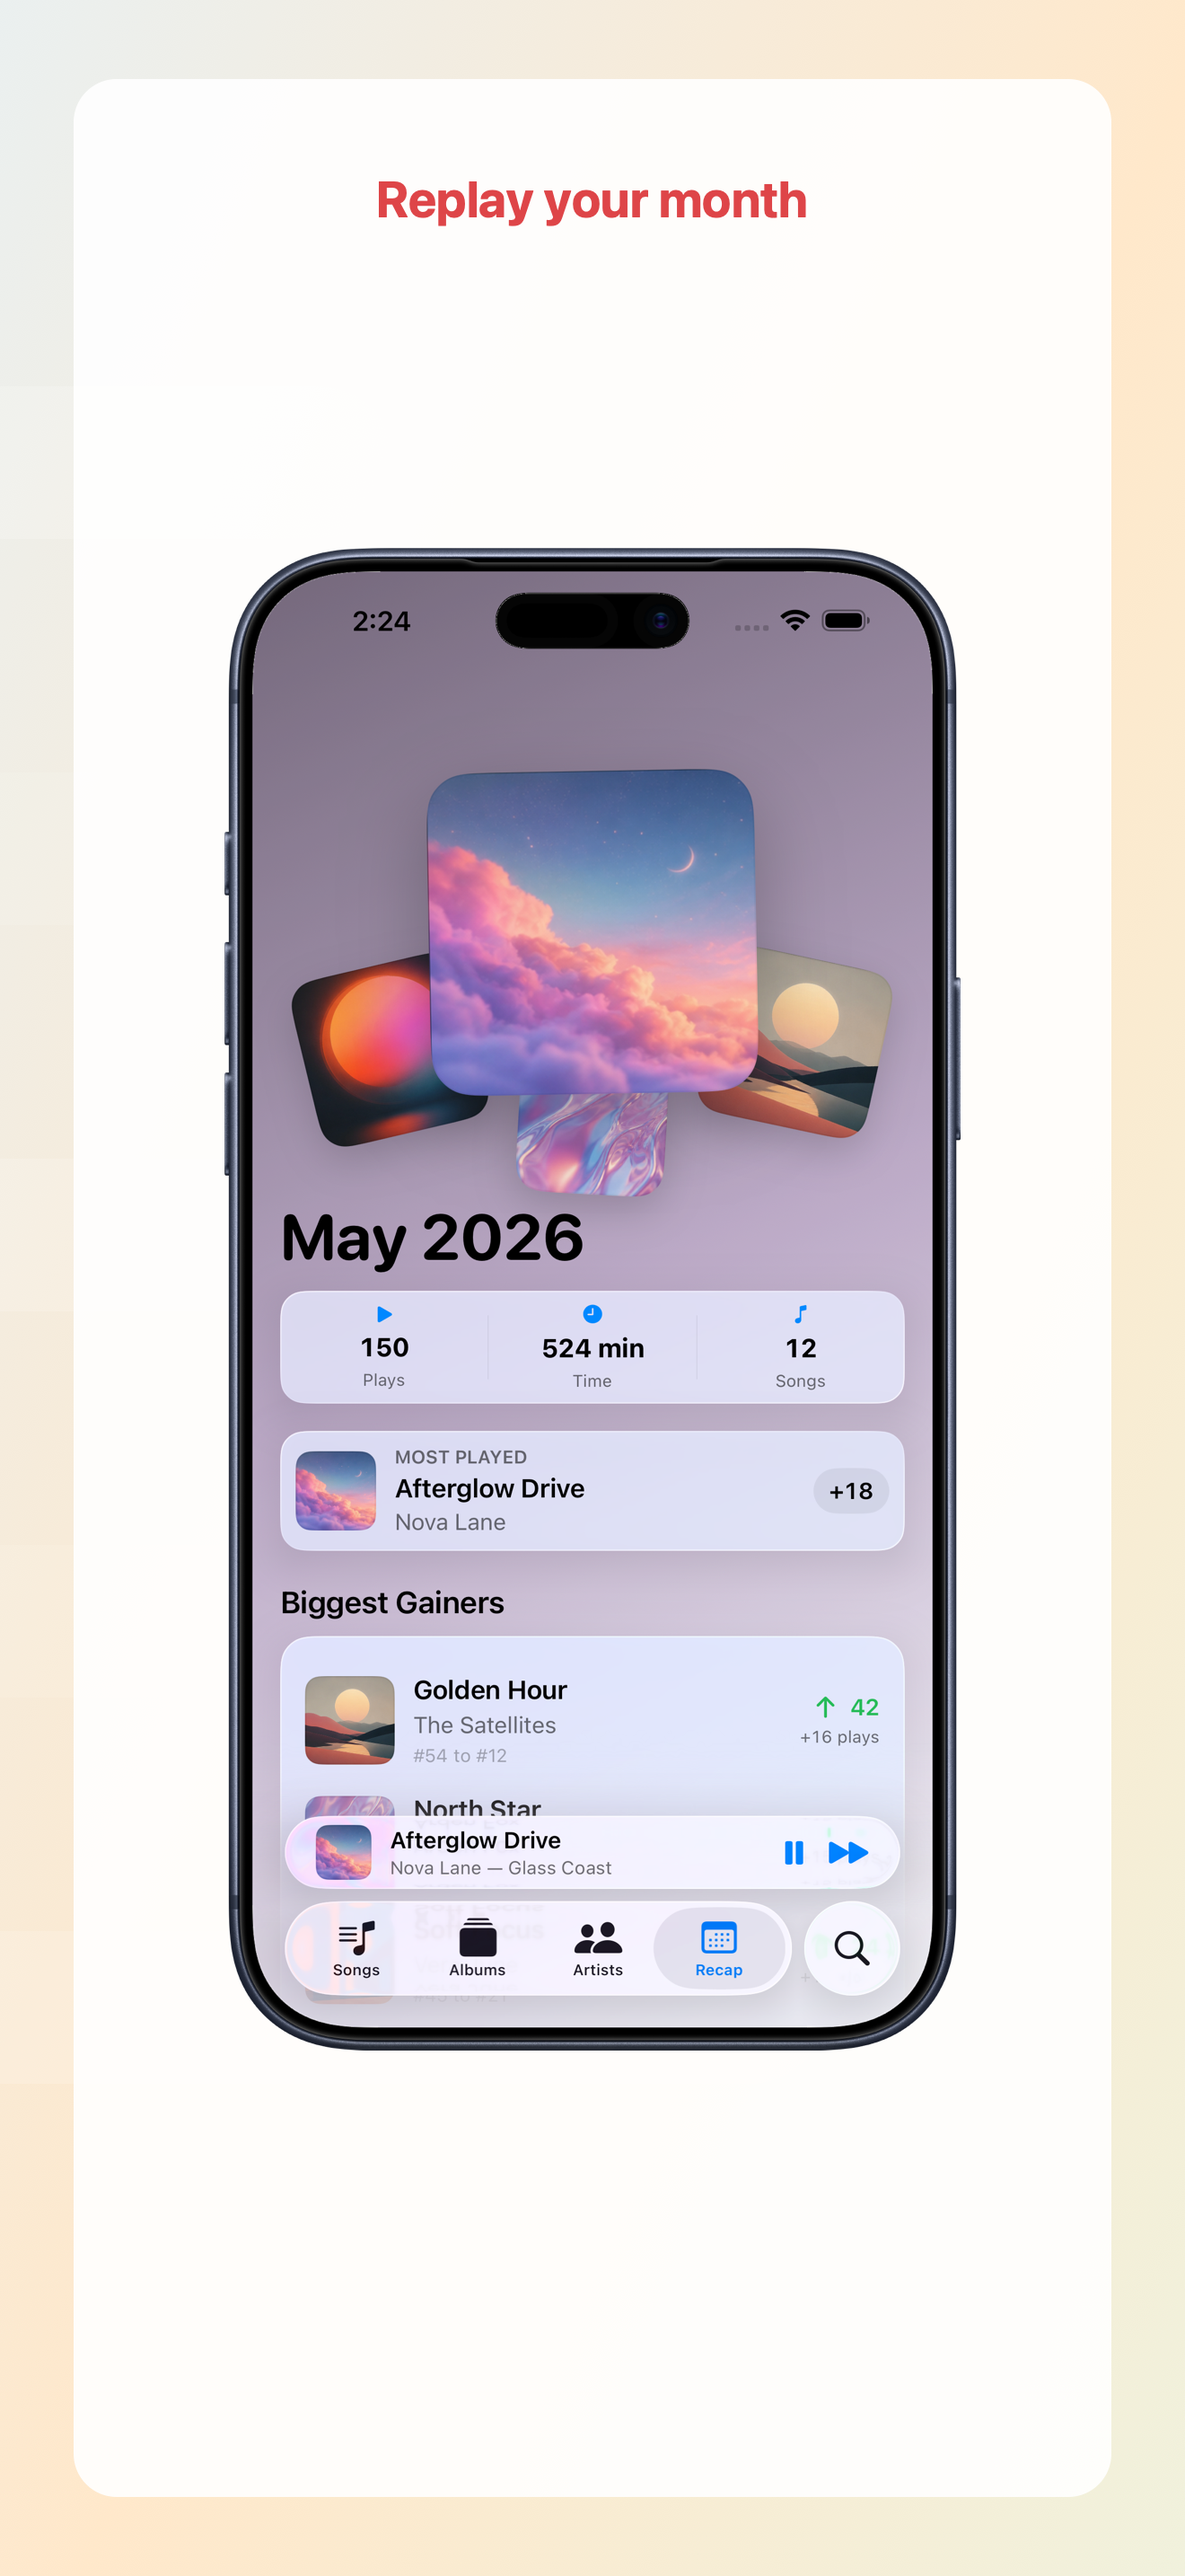
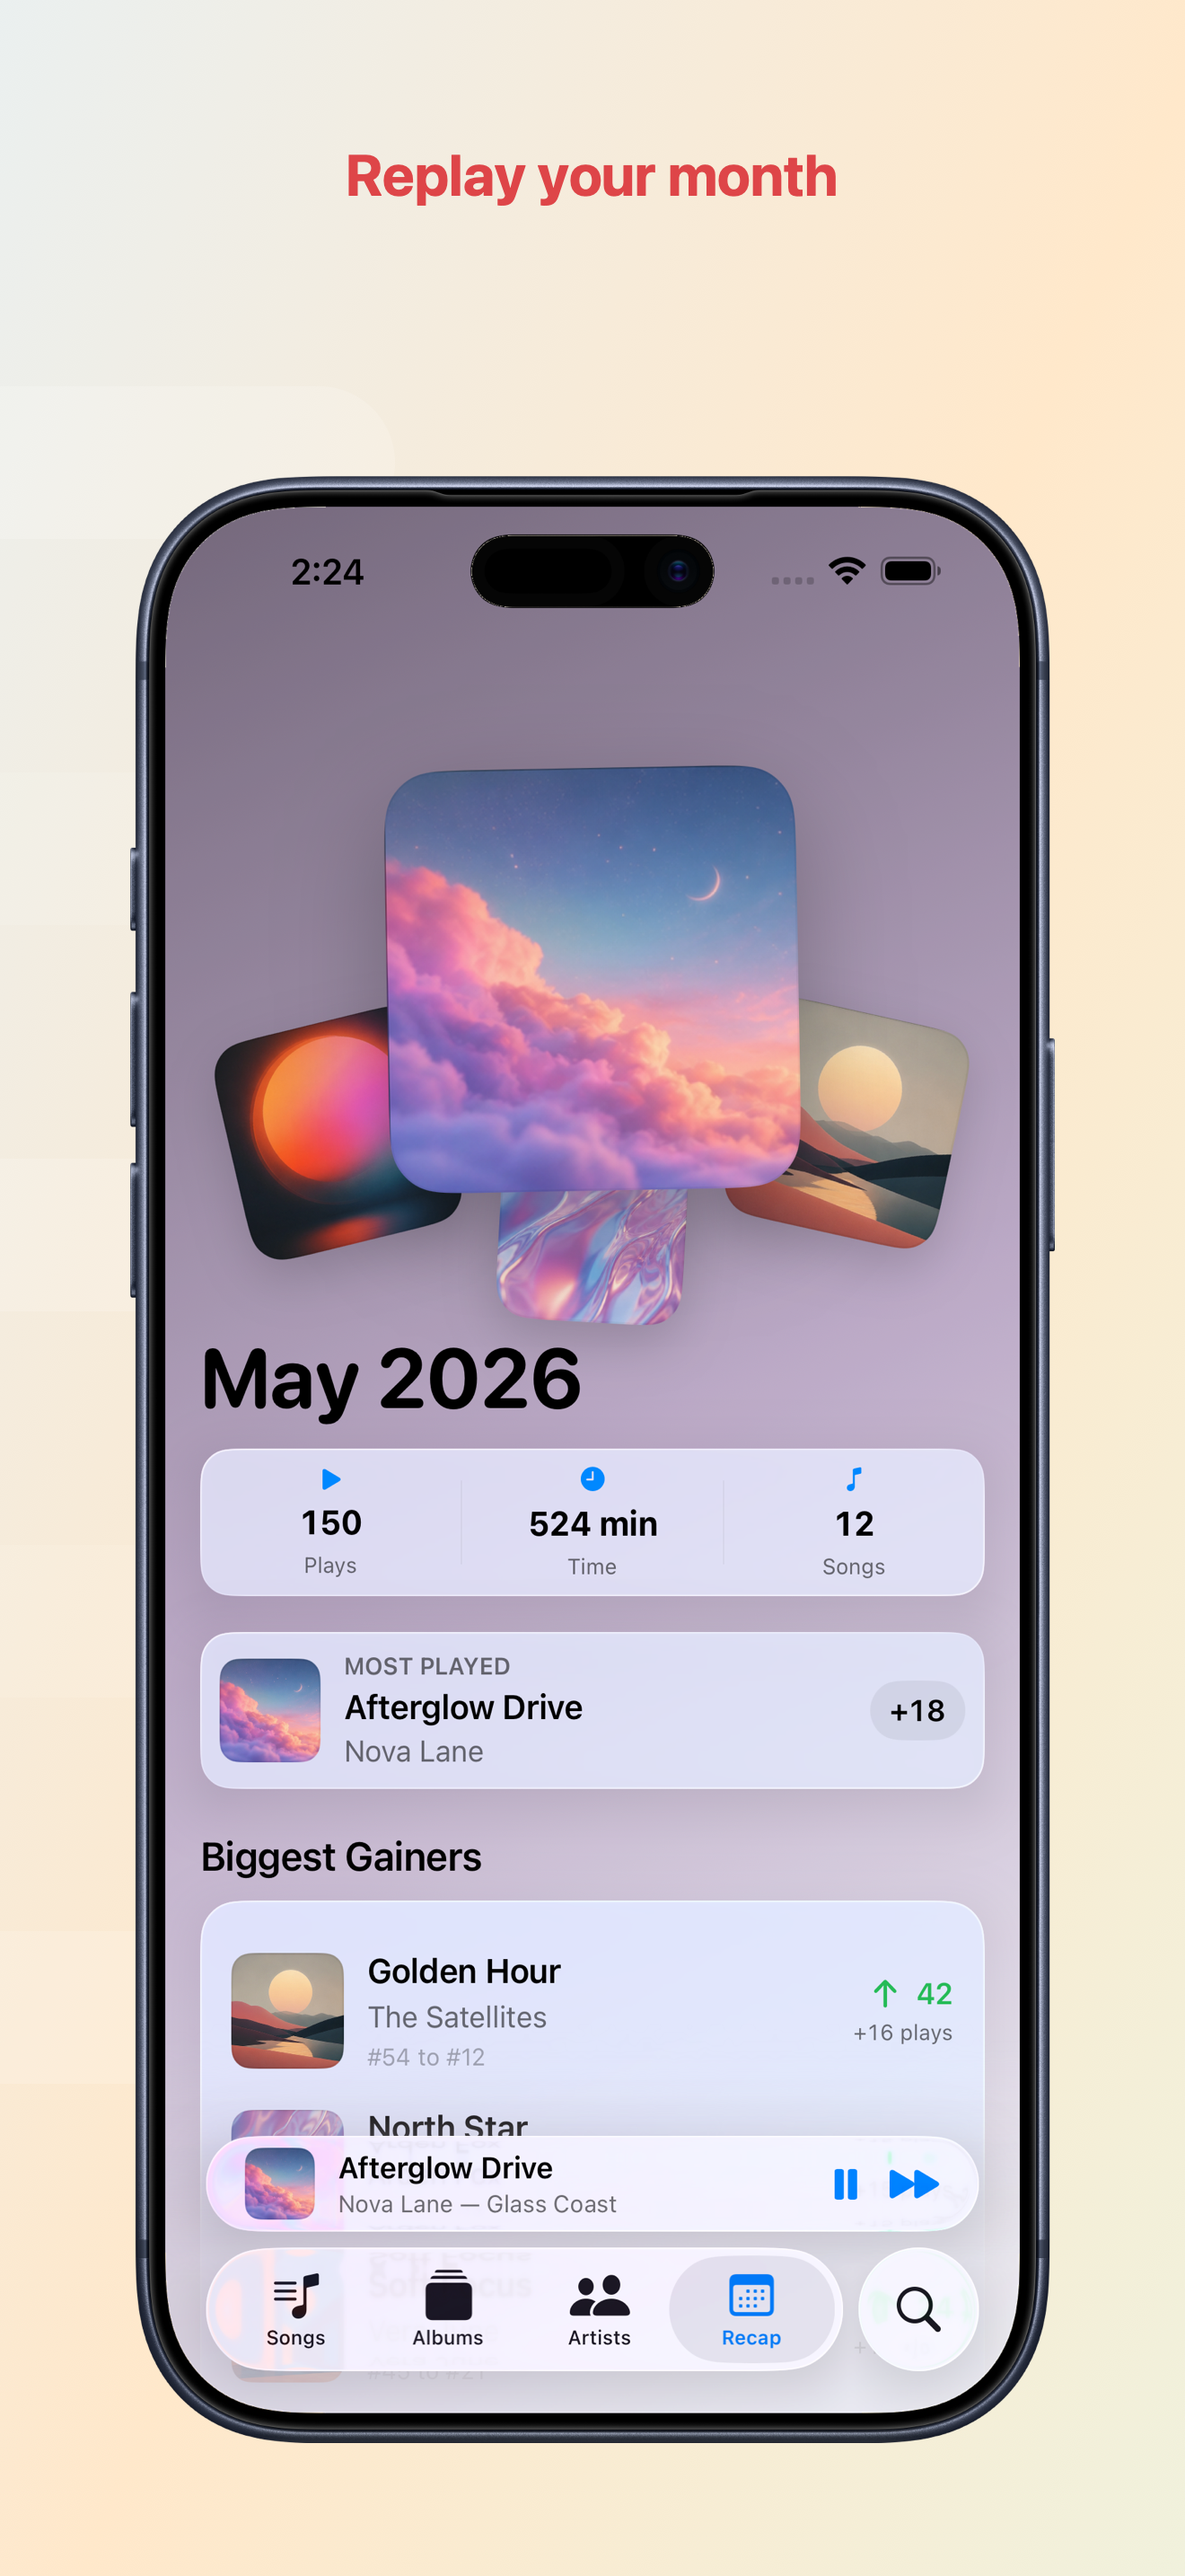
Enlarge App Store screenshot layouts

diff --git a/tools/create_app_store_framed_screenshots.swift b/tools/create_app_store_framed_screenshots.swift
@@ -45,22 +45,12 @@ let shots: [Shot] = [
 ]
 
 let canvasSize = CGSize(width: 1320, height: 2868)
-let cardRect = CGRect(x: 82, y: 88, width: 1156, height: 2692)
-let deviceFrame = CGRect(x: 250, y: 610, width: 820, height: 1673)
-let titleRect = CGRect(x: 158, y: 190, width: 1004, height: 210)
+let deviceFrame = CGRect(x: 145, y: 530, width: 1030, height: 2190)
+let titleRect = CGRect(x: 104, y: 160, width: 1112, height: 190)
 let rgbaBitmapInfo = CGBitmapInfo.byteOrder32Big.rawValue | CGImageAlphaInfo.premultipliedLast.rawValue
 
 func flipped(_ rect: CGRect) -> CGRect {
     CGRect(x: rect.origin.x, y: canvasSize.height - rect.origin.y - rect.height, width: rect.width, height: rect.height)
-}
-
-func drawRoundedRect(_ rect: CGRect, radius: CGFloat, color: NSColor, in context: CGContext) {
-    context.saveGState()
-    let path = CGPath(roundedRect: flipped(rect), cornerWidth: radius, cornerHeight: radius, transform: nil)
-    context.addPath(path)
-    context.setFillColor(color.cgColor)
-    context.fillPath()
-    context.restoreGState()
 }
 
 func drawText(_ text: String, rect: CGRect, font: NSFont, color: NSColor, context: CGContext, alignment: NSTextAlignment = .left, lineHeight: CGFloat? = nil) {
@@ -309,16 +299,15 @@ func render(_ shot: Shot) throws {
     }
 
     drawBackground(offset: shot.backgroundOffset, context: context)
-    drawRoundedRect(cardRect, radius: 48, color: NSColor.white.withAlphaComponent(0.90), in: context)
 
     drawText(
         shot.title,
         rect: titleRect,
-        font: NSFont.systemFont(ofSize: 56, weight: .bold),
+        font: NSFont.systemFont(ofSize: 64, weight: .bold),
         color: NSColor(calibratedRed: 0.83, green: 0.18, blue: 0.22, alpha: 1),
         context: context,
         alignment: .center,
-        lineHeight: 64
+        lineHeight: 72
     )
 
     guard let bezelImage = NSImage(contentsOf: bezelURL),
